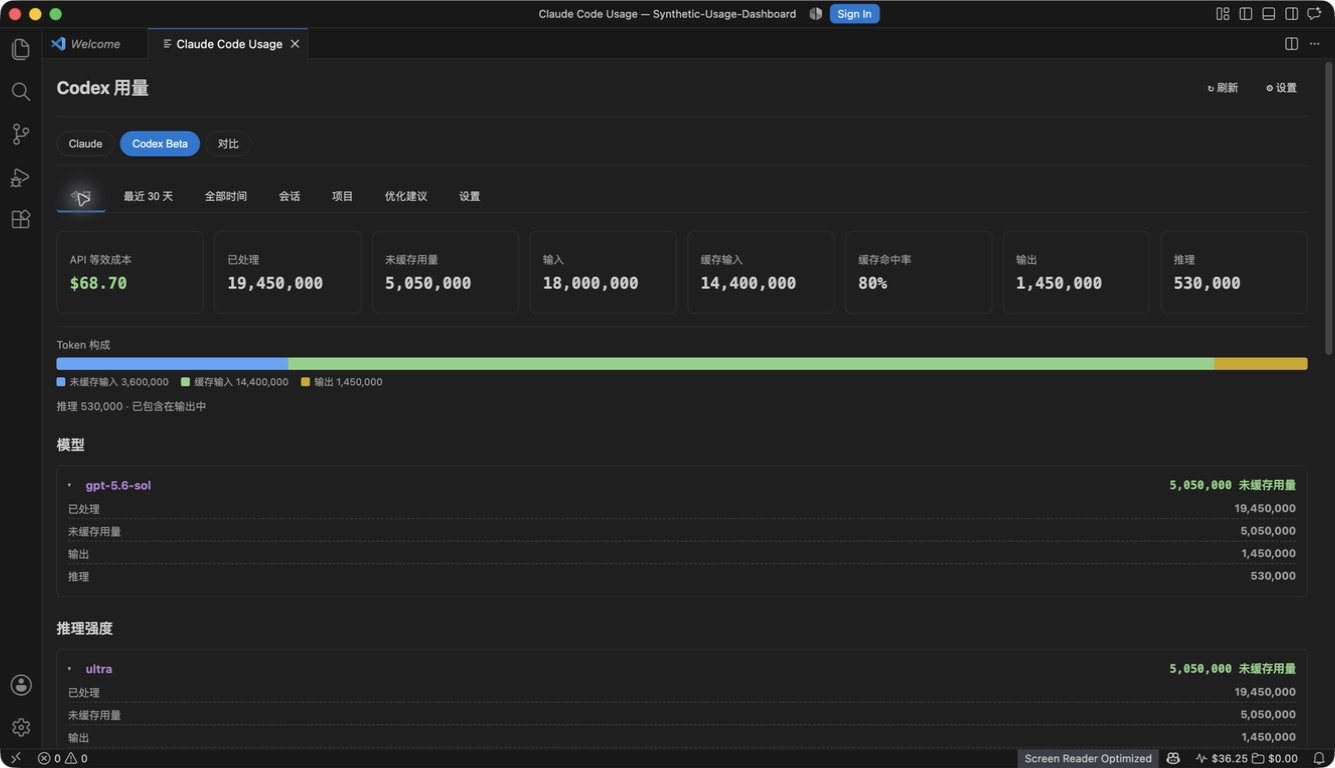
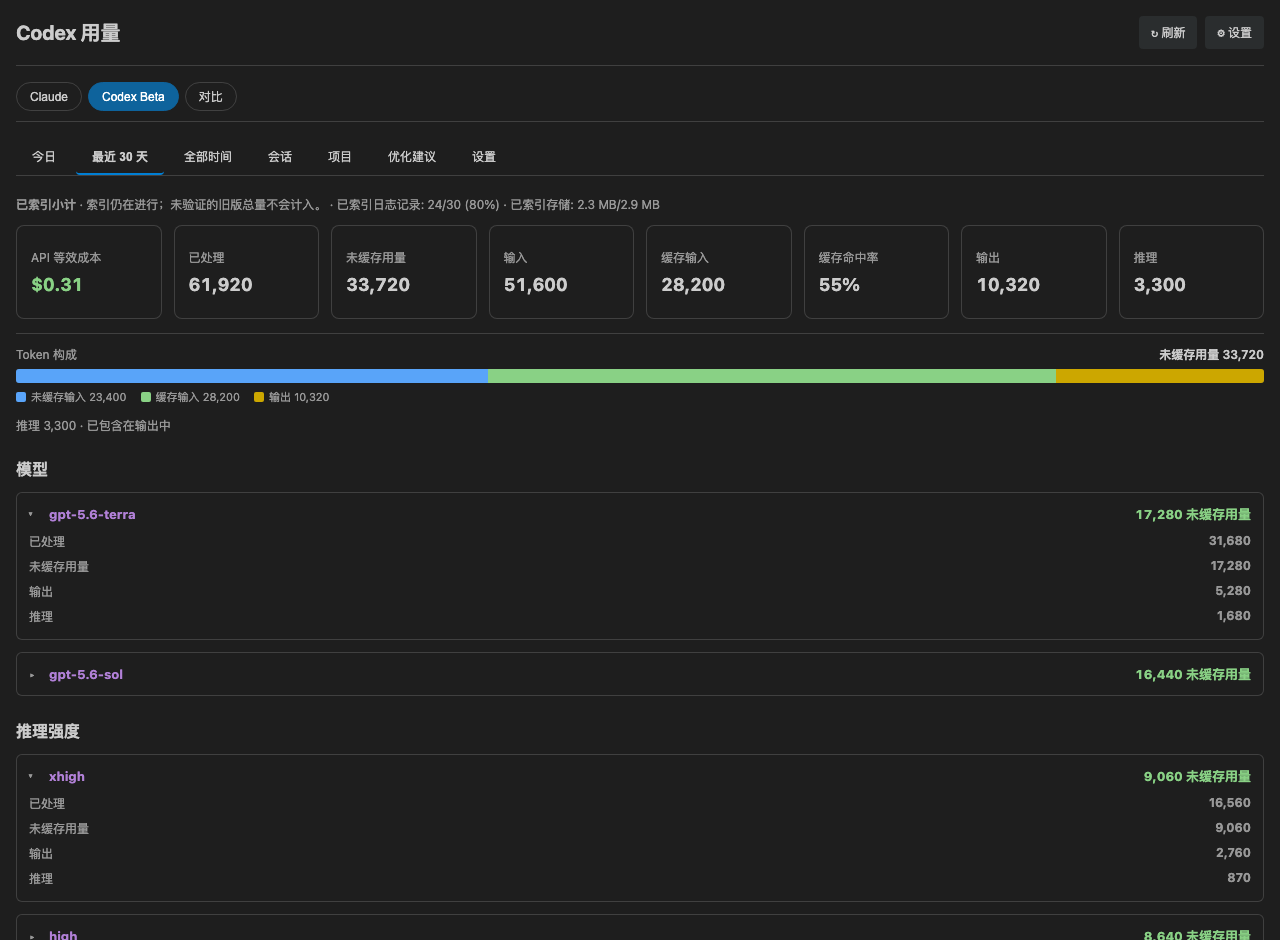
docs: refresh v2.3.1 release screenshots and usage guidance

diff --git a/src/test/repositoryPolicy.test.ts b/src/test/repositoryPolicy.test.ts
@@ -1458,6 +1458,7 @@ test('v2.3.1 README editions share release evidence and local-data boundaries', 
     'README-id.md',
   ];
   const releaseImages = [
+    'images/v2.3.1/claude-today-zh-CN-dark.png',
     'images/v2.3.1/codex-overview-zh-CN-dark.png',
     'images/v2.3.1/codex-weekly-estimate-en-dark.png',
     'images/v2.3.1/compare-heatmap-en-light.png',

diff --git a/README.md b/README.md
@@ -43,7 +43,17 @@ the same data.
 
 ## Screenshots
 
-### v2.3.1 Codex and Compare
+### v2.3.1 Claude, Codex and Compare
+
+The four v2.3.1 images below are reproducible captures of the production dashboard
+renderer with synthetic fixtures and VS Code Light+/Dark+ theme variables, not
+personal usage or billing evidence. Native VSIX installation is verified separately.
+
+![Claude Today in Simplified Chinese, dark theme](images/v2.3.1/claude-today-zh-CN-dark.png)
+
+*Today and Last 30 days share the configured calendar timezone. CLI usage is
+counted only when normal persistent sessions leave usage-bearing local logs;
+calls made without session persistence cannot be reconstructed.*
 
 ![Codex overview in Simplified Chinese, dark theme](images/v2.3.1/codex-overview-zh-CN-dark.png)
 
@@ -54,7 +64,8 @@ Today, Last 30 days, months, models, effort, and all-time totals.*
 
 *Observed quota windows retain reset evidence locally. A valid used fraction can
 produce labelled total and unused subscription-durability estimates, including
-for the current window. Approximate evidence remains visible with low confidence.*
+for the current window. Approximate evidence remains visible with low confidence.
+Period details start collapsed; expand them to inspect the numeric evidence.*
 
 ![Combined Claude and Codex heatmap in English, light theme](images/v2.3.1/compare-heatmap-en-light.png)
 
@@ -62,9 +73,15 @@ for the current window. Approximate evidence remains visible with low confidence
 input or reasoning. Its preview-first share studio offers an Academic Violet
 default, curated/custom colors, deterministic local SVG, and privacy-safe
 Markdown. It is enabled by default and can be hidden with the single sharing
-workspace setting; the metric is activity volume, not productivity or billing.*
+workspace setting. Card settings sit below the preview; intensity can use quantile,
+logarithmic, or linear scaling. The metric is activity volume, not productivity or billing.*
 
-### Status bar
+### Claude status bar
+
+Codex uses a compact **Today token usage** item and a separate **remaining quota**
+item: observed 36% weekly utilisation displays `wk 64%`. The hover card retains
+utilisation progress bars, reset times, and wrapped explanations. Local Codex
+quota is last-observed evidence, not a live account balance.
 
 ![Status bar](images/v2-status-bar-en.png)
 

diff --git a/README-ja.md b/README-ja.md
@@ -10,7 +10,7 @@
 >
 > **これは何ではないか**：請求ツールではありません。表示される金額はすべて公開のトークン単価に基づく見積もりです。実際の請求は Anthropic アカウントをご確認ください。
 
-> スクリーンショットは英語 UI のものです。全機能の詳細は[メイン README](README.md) を参照してください。
+> スクリーンショットには英語と簡体字中国語を使用しています。詳細は[メイン README](README.md) を参照してください。
 
 ## スクリーンショット
 
@@ -28,13 +28,19 @@
 
 ### v2.3.1 Codex と比較
 
+![Claude 本日、簡体字中国語、ダークテーマ](images/v2.3.1/claude-today-zh-CN-dark.png)
+
 ![Codex 概要、簡体字中国語、ダークテーマ](images/v2.3.1/codex-overview-zh-CN-dark.png)
 
 ![Codex 週間枠推定、英語、ダークテーマ](images/v2.3.1/codex-weekly-estimate-en-dark.png)
 
 ![Claude と Codex の統合ヒートマップ、英語、ライトテーマ](images/v2.3.1/compare-heatmap-en-light.png)
 
-すべて同じインストール済み v2.3.1 VSIX と合成データから取得し、アカウント、パス、プロジェクト、スレッド、ログ本文を含みません。
+上の4枚は本番ダッシュボードのレンダラー、合成データ、VS Code Light+/Dark+ のテーマ変数から生成しています。個人の使用量や請求の証拠ではありません。ネイティブ VSIX のインストールは別途検証します。
+
+- Codex は**本日の使用済みトークン**と**残りクォータ**を別表示します。週の使用率が36%なら `wk 64%`。ツールチップには使用率バー、リセット時刻、折り返した説明を表示します。クォータは最後のローカル観測であり、リアルタイム残高ではありません。
+- 期間詳細は初期状態で折りたたみ、共有設定はプレビューの下に配置。共有は既定で有効、無効化も可能です。色の強度は分位数・対数・線形から選択できます。
+- CLI の計上には usage を含む永続セッションログが必要です。未保存の呼び出しは復元できません。本日と過去30日は設定タイムゾーンを使用します。
 
 ## 主な機能
 

diff --git a/README-ko.md b/README-ko.md
@@ -10,7 +10,7 @@
 >
 > **무엇이 아닌가**: 청구 도구가 아닙니다. 표시되는 모든 금액은 공개된 100만 토큰당 단가 기준 추정치입니다. 실제 청구는 Anthropic 계정을 확인하세요.
 
-> 스크린샷은 영어 UI 기준입니다. 전체 기능 설명은 [메인 README](README.md)를 참고하세요.
+> 스크린샷에는 영어와 중국어 간체 UI가 포함됩니다. 전체 기능 설명은 [메인 README](README.md)를 참고하세요.
 
 ## 스크린샷
 
@@ -28,13 +28,19 @@
 
 ### v2.3.1 Codex 및 비교
 
+![Claude 오늘, 중국어 간체, 어두운 테마](images/v2.3.1/claude-today-zh-CN-dark.png)
+
 ![Codex 개요, 중국어 간체, 어두운 테마](images/v2.3.1/codex-overview-zh-CN-dark.png)
 
 ![Codex 주간 한도 추정, 영어, 어두운 테마](images/v2.3.1/codex-weekly-estimate-en-dark.png)
 
 ![Claude와 Codex 통합 히트맵, 영어, 밝은 테마](images/v2.3.1/compare-heatmap-en-light.png)
 
-모두 동일한 설치된 v2.3.1 VSIX와 합성 데이터에서 캡처했으며 계정, 경로, 프로젝트, 스레드 또는 로그 본문을 포함하지 않습니다.
+위 4장은 실제 대시보드 렌더러, 합성 데이터, VS Code Light+/Dark+ 테마 변수로 생성했습니다. 개인 사용량이나 청구 증거가 아니며, 네이티브 VSIX 설치는 별도로 검증합니다.
+
+- Codex는 **오늘 사용한 토큰**과 **남은 쿼터**를 따로 표시합니다. 주간 사용률 36%이면 `wk 64%`입니다. 툴팁에는 사용률 막대, 초기화 시각, 줄바꿈 설명이 유지됩니다. 쿼터는 마지막 로컬 관측이며 실시간 잔액이 아닙니다.
+- 기간 상세는 기본으로 접고 공유 설정은 미리보기 아래에 둡니다. 공유는 기본 활성화이며 끌 수 있고, 색 강도는 분위수·로그·선형 중 선택합니다.
+- CLI 호출은 usage가 있는 영구 세션 로그를 남겨야 집계됩니다. 저장하지 않은 호출은 복원할 수 없습니다. 오늘과 최근 30일은 설정된 시간대를 사용합니다.
 
 ## 기능
 

diff --git a/README-id.md b/README-id.md
@@ -10,7 +10,7 @@
 
 > **ini _Bukanlah_:** alat billing. Semua angka adalah estimasi berdasarkan tarif publik per-juta-token. Rujuk ke akun Anthropic Anda untuk biaya yang sebenarnya.
 
-> Screenshot berasal dari UI berbahasa Inggris. Lihat [README utama](README.md) untuk referensi fitur lengkap.
+> Screenshot mencakup UI bahasa Inggris dan Tionghoa Sederhana. Lihat [README utama](README.md) untuk referensi lengkap.
 
 ## Screenshot
 
@@ -28,13 +28,19 @@ Arahkan kursor ke indikator kuota untuk melihat rinciannya:
 
 ### Codex dan Perbandingan v2.3.1
 
+![Claude hari ini, Tionghoa Sederhana, tema gelap](images/v2.3.1/claude-today-zh-CN-dark.png)
+
 ![Ringkasan Codex, Tionghoa Sederhana, tema gelap](images/v2.3.1/codex-overview-zh-CN-dark.png)
 
 ![Estimasi batas mingguan Codex, Inggris, tema gelap](images/v2.3.1/codex-weekly-estimate-en-dark.png)
 
 ![Heatmap gabungan Claude dan Codex, Inggris, tema terang](images/v2.3.1/compare-heatmap-en-light.png)
 
-Semua diambil dari VSIX v2.3.1 terpasang yang sama dengan data sintetis, tanpa akun, jalur, proyek, thread, atau isi log.
+Empat gambar v2.3.1 ini menggunakan renderer produksi, data sintetis, dan variabel tema VS Code Light+/Dark+, bukan bukti penggunaan pribadi atau tagihan. Instalasi VSIX native diverifikasi secara terpisah.
+
+- Codex menampilkan **token terpakai hari ini** dan **sisa kuota** secara terpisah: penggunaan mingguan 36% berarti `wk 64%`. Tooltip tetap menampilkan bilah penggunaan, waktu reset, dan catatan berbaris. Kuota berasal dari pengamatan lokal terakhir, bukan saldo langsung.
+- Detail periode tertutup secara default; pengaturan berbagi berada di bawah pratinjau. Berbagi aktif secara default dan dapat dimatikan, dengan intensitas kuantil, logaritmik, atau linear.
+- Panggilan CLI dihitung hanya jika sesi persisten menyimpan log dengan usage. Panggilan tanpa log tidak dapat dipulihkan; Hari ini dan 30 hari terakhir memakai zona waktu yang dikonfigurasi.
 
 ## Fitur
 

diff --git a/README-en.md b/README-en.md
@@ -10,7 +10,7 @@
 >
 > **What it is _not_:** a billing tool. All amounts are estimates based on public per-million-token rates. Refer to your Anthropic account for actual charges.
 
-> Screenshots are from the English UI. See the [main README](README.md) for the full feature reference.
+> Screenshots include English and Simplified Chinese. See the [main README](README.md) for the full feature reference.
 
 ## Screenshots
 
@@ -28,14 +28,19 @@ Hover the quota indicator for a breakdown:
 
 ### v2.3.1 Codex and Compare
 
+![Claude Today, Simplified Chinese, dark theme](images/v2.3.1/claude-today-zh-CN-dark.png)
+
 ![Codex overview, Simplified Chinese, dark theme](images/v2.3.1/codex-overview-zh-CN-dark.png)
 
 ![Codex weekly allowance estimate, English, dark theme](images/v2.3.1/codex-weekly-estimate-en-dark.png)
 
 ![Combined Claude and Codex heatmap, English, light theme](images/v2.3.1/compare-heatmap-en-light.png)
 
-These images come from the same installed v2.3.1 VSIX with synthetic data and
-contain no account, path, project, thread, or log content.
+These four v2.3.1 captures use the production renderer, synthetic fixtures, and VS Code Light+/Dark+ theme variables—not personal usage or billing evidence. Native VSIX installation is checked separately.
+
+- Codex shows **Today token usage** and separate **remaining quota**: 36% used means `wk 64%`. Hover shows utilisation bars, resets, and wrapped notes. Quota is last-observed local evidence, not a live balance.
+- Period details start collapsed; sharing settings sit below the preview. Sharing is on by default with an off switch and quantile, logarithmic, or linear intensity.
+- CLI calls count only when persistent sessions leave usage-bearing logs. Non-persisted calls cannot be backfilled; Today and Last 30 days use the configured timezone.
 
 ## Features
 

diff --git a/README-zh-CN.md b/README-zh-CN.md
@@ -10,7 +10,7 @@
 >
 > **它不是什么**：账单工具。所有金额均为估算值（基于公开的每百万 token 单价），实际费用请以 Anthropic 官方账单为准。
 
-> 截图取自英文界面。
+> 截图包含中英文界面；各图标明主题与范围。
 
 ---
 
@@ -37,14 +37,19 @@
 
 ### v2.3.1 Codex 与对比
 
+![Claude 今日，简体中文深色主题](images/v2.3.1/claude-today-zh-CN-dark.png)
+
 ![Codex 概览，简体中文深色主题](images/v2.3.1/codex-overview-zh-CN-dark.png)
 
 ![Codex 每周额度估算，英文深色主题](images/v2.3.1/codex-weekly-estimate-en-dark.png)
 
 ![Claude 与 Codex 综合热力图，英文浅色主题](images/v2.3.1/compare-heatmap-en-light.png)
 
-以上截图均来自同一份已安装的 v2.3.1 VSIX 和合成数据，不含账号、路径、项目、
-线程或日志正文。
+以上四张 v2.3.1 截图使用生产仪表板渲染器、合成夹具及 VS Code Light+/Dark+ 主题变量生成，不是个人用量或账单证据；原生 VSIX 安装单独验收。
+
+- Codex 主状态项显示**今日已用 token**，周额度项显示**余量**：已用 36% 时为 `wk 64%`；悬浮卡保留已用进度条、重置时间和分行说明。额度来自本地最后观测，不是实时余额。
+- 周期详情默认折叠；分享设置位于图下方。分享工作台默认开启、可关闭；色阶可选分位数、对数或线性。
+- CLI 调用只有留下带 usage 的持久会话日志才能计入。未保存会话的历史调用不能回填；今日和最近 30 天都采用配置时区。
 
 ### Content 标签页：看清 token 究竟花在了哪里
 

diff --git a/README-zh-TW.md b/README-zh-TW.md
@@ -10,7 +10,7 @@
 >
 > **它不是什麼**：帳單工具。顯示金額均為估算值，實際費用請以官方帳單為準。
 
-> 截圖取自英文介面。完整功能說明請見[主 README](README.md)。
+> 截圖包含英文與簡體中文介面。完整功能說明請見[主 README](README.md)。
 
 ## 截圖
 
@@ -28,13 +28,19 @@
 
 ### v2.3.1 Codex 與比較
 
+![Claude 今日，簡體中文深色主題](images/v2.3.1/claude-today-zh-CN-dark.png)
+
 ![Codex 概覽，簡體中文深色主題](images/v2.3.1/codex-overview-zh-CN-dark.png)
 
 ![Codex 每週額度估算，英文深色主題](images/v2.3.1/codex-weekly-estimate-en-dark.png)
 
 ![Claude 與 Codex 綜合熱力圖，英文淺色主題](images/v2.3.1/compare-heatmap-en-light.png)
 
-以上影像皆來自同一份已安裝的 v2.3.1 VSIX 與合成資料，不含帳號、路徑、專案、執行緒或日誌正文。
+以上四張 v2.3.1 影像使用正式儀表板渲染器、合成資料與 VS Code Light+/Dark+ 主題變數產生，不是個人用量或帳單證據；原生 VSIX 安裝另行驗證。
+
+- Codex 狀態列分別顯示**今日已用 token**和**剩餘額度**：已用 36% 時顯示 `wk 64%`。提示卡保留使用進度條、重置時間與換行說明；額度是本地最後觀測，不是即時餘額。
+- 週期明細預設收合，分享設定位於預覽下方。分享工作台預設開啟、可關閉；色階可選分位數、對數或線性。
+- CLI 呼叫須留下帶 usage 的持久工作階段日誌才能計入。未保存的呼叫無法回填；今日與最近 30 天使用設定時區。
 
 ## 功能特色
 

diff --git a/CHANGELOG.md b/CHANGELOG.md
@@ -58,6 +58,10 @@ upstream release: 1.0.8). Format follows [Keep a Changelog](https://keepachangel
   and Codex use the configured timezone and shared `HH:00` labels.
 
 ### Changed
+- **Refreshed release documentation** — all seven README editions now show the
+  current Claude Today, Codex overview, collapsed weekly details, and vertical
+  sharing studio. Captures use the production renderer with disclosed synthetic
+  fixtures; a repeatable capture script keeps screenshot provenance explicit.
 - **Shared dashboard system** — Claude and Codex now reuse the same density,
   headings, disclosure controls, chart/table framing, empty states, focus
   treatment, responsive navigation, and light/dark design tokens while keeping
